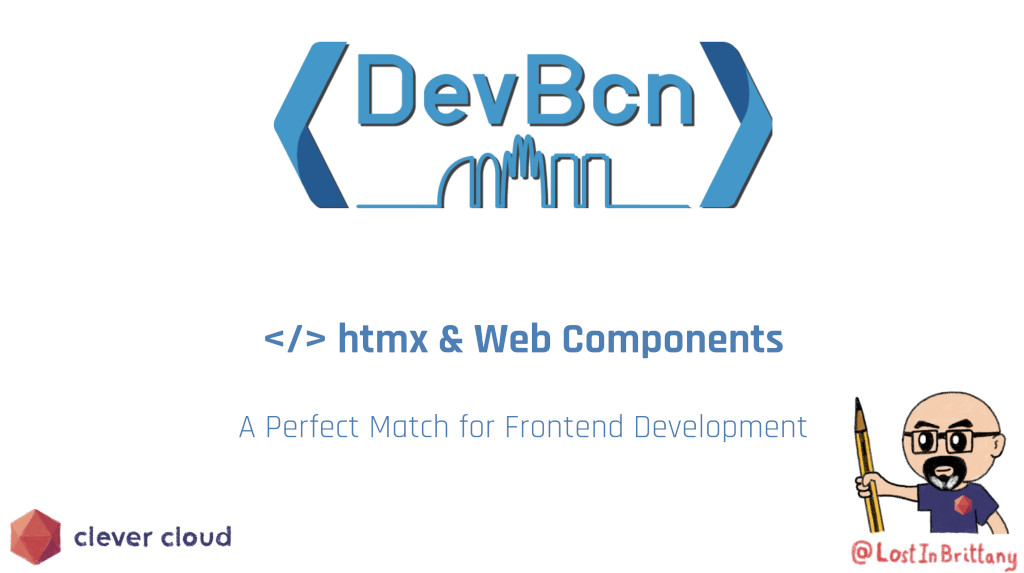
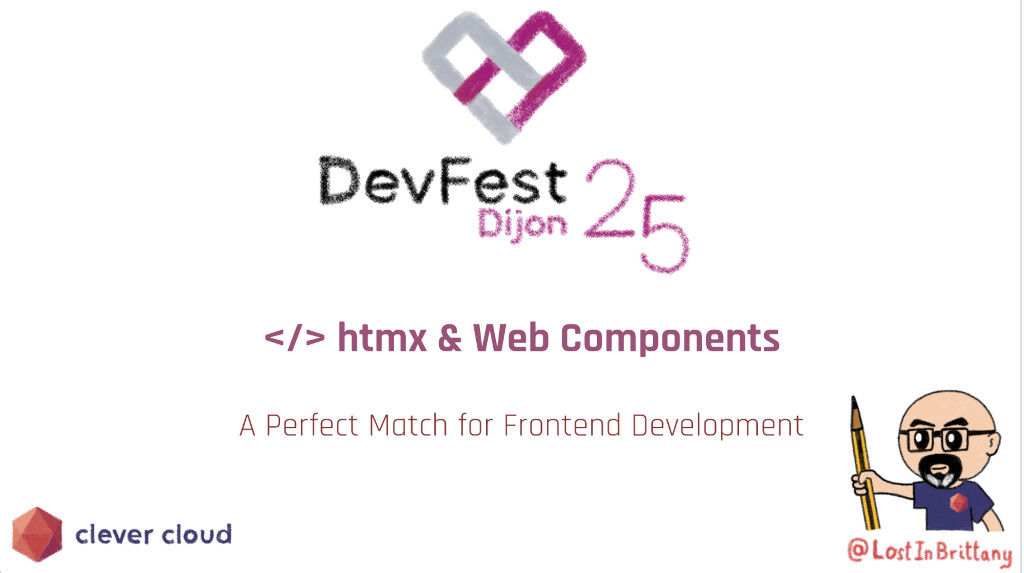
Updating to htmx 2.0.4 and lit 3.2.1, and to DefFest Dijon

diff --git a/weather-dashboard-example/weather-dashboard.html b/weather-dashboard-example/weather-dashboard.html
@@ -1,30 +1,25 @@
 <!DOCTYPE html>
 <html lang="en">
+
 <head>
   <meta charset="UTF-8">
   <meta name="viewport" content="width=device-width, initial-scale=1.0">
   <title>Weather Dashboard</title>
   <link rel="stylesheet" href="../styles.css">
   <script type="module" src="./weather-widget.js"></script>
-  <script src="https://unpkg.com/htmx.org@2.0.2"></script>
+  <script src="https://unpkg.com/htmx.org@2.0.4"></script>
 </head>
+
 <body>
 
   <h1>Weather Dashboard</h1>
 
-  <form id="location-form" 
-      hx-post="/location" 
-      hx-target="#weather-list" 
-      hx-swap="beforeend">
+  <form id="location-form" hx-post="/location" hx-target="#weather-list" hx-swap="beforeend">
     <input type="text" name="location" placeholder="Enter location" required>
     <button type="submit">Add Location</button>
   </form>
 
-  <div 
-      id="weather-list" 
-      class="dashboard"
-      hx-get="/locations"
-      hx-trigger="load"></div>
+  <div id="weather-list" class="dashboard" hx-get="/locations" hx-trigger="load"></div>
 </body>
-</html>
 
+</html>

diff --git a/weather-dashboard-example/weather-widget.js b/weather-dashboard-example/weather-widget.js
@@ -1,4 +1,4 @@
-import { LitElement, html, css } from 'https://cdn.jsdelivr.net/gh/lit/dist@3/core/lit-core.min.js';
+import { LitElement, html, css } from 'https://cdn.jsdelivr.net/npm/lit@3.2.1/+esm';
 
 export class WeatherWidget extends LitElement {
   static get properties() {
@@ -131,7 +131,7 @@ export class WeatherWidget extends LitElement {
       <div class="weather-container">
         <div class="weather-header">${this.name}</div>
         ${this.weatherData
-          ? html`
+        ? html`
               <div class="weather-temp">${this.weatherData.temperature}°C</div>
               <div class="weather-emoji" 
                   data-tooltip="${this.getWeatherInfo(this.weatherData.weathercode).description}">
@@ -139,7 +139,7 @@ export class WeatherWidget extends LitElement {
               </div>
               <div>${this.weatherData.windspeed} km/h wind</div>
             `
-          : html`<p>Loading...</p>`}
+        : html`<p>Loading...</p>`}
       </div>
     `;
   }

diff --git a/todo-example/todo-step-05.html b/todo-example/todo-step-05.html
@@ -12,19 +12,12 @@
   <h1>To-do list example</h1>
   <h2>Step 5: Editing tasks</h2>
 
-  <script src="https://unpkg.com/htmx.org@2.0.2"></script>
+  <script src="https://unpkg.com/htmx.org@2.0.4"></script>
 
   <div id="app" class="container">
     <h1>To-Do List</h1>
-    <ul 
-        id="todo-list" 
-        hx-get="/todo-list/step05/tasks" 
-        hx-trigger="load"></ul>
-    <form id="addTask" 
-        hx-post="/todo-list/step05/task" 
-        hx-trigger="submit" 
-        hx-target="#todo-list" 
-        hx-swap="beforeend">
+    <ul id="todo-list" hx-get="/todo-list/step05/tasks" hx-trigger="load"></ul>
+    <form id="addTask" hx-post="/todo-list/step05/task" hx-trigger="submit" hx-target="#todo-list" hx-swap="beforeend">
       <input type="text" name="task" required />
       <input type="submit" value="Add task" />
     </form>

diff --git a/todo-example/todo-step-04.html b/todo-example/todo-step-04.html
@@ -12,19 +12,11 @@
   <h1>To-do list example</h1>
   <h2>Step 4: Preloading existing tasks</h2>
 
-  <script src="https://unpkg.com/htmx.org@2.0.2"></script>
+  <script src="https://unpkg.com/htmx.org@2.0.4"></script>
 
   <div id="app" class="container">
-    <ul 
-        id="todo-list" 
-        hx-get="/todo-list/step04/tasks" 
-        hx-trigger="load"></ul>
-    <form 
-        id="addTask" 
-        hx-post="/todo-list/step04/task" 
-        hx-trigger="submit" 
-        hx-target="#todo-list" 
-        hx-swap="beforeend">
+    <ul id="todo-list" hx-get="/todo-list/step04/tasks" hx-trigger="load"></ul>
+    <form id="addTask" hx-post="/todo-list/step04/task" hx-trigger="submit" hx-target="#todo-list" hx-swap="beforeend">
       <input type="text" name="task" required />
       <input type="submit" value="addTask" />
     </form>

diff --git a/todo-example/todo-step-06.html b/todo-example/todo-step-06.html
@@ -12,19 +12,12 @@
   <h1>To-do list example</h1>
   <h2>Step 6: Deleting tasks</h2>
 
-  <script src="https://unpkg.com/htmx.org@2.0.2"></script>
+  <script src="https://unpkg.com/htmx.org@2.0.4"></script>
 
   <div id="app" class="container">
     <h1>To-Do List</h1>
-    <ul 
-        id="todo-list" 
-        hx-get="/tasks" 
-        hx-trigger="load"></ul>
-    <form id="addTask" 
-        hx-post="/task" 
-        hx-trigger="submit" 
-        hx-target="#todo-list" 
-        hx-swap="beforeend">
+    <ul id="todo-list" hx-get="/tasks" hx-trigger="load"></ul>
+    <form id="addTask" hx-post="/task" hx-trigger="submit" hx-target="#todo-list" hx-swap="beforeend">
       <input type="text" name="task" required />
       <input type="submit" value="Add task" />
     </form>

diff --git a/todo-example/todo-step-03.html b/todo-example/todo-step-03.html
@@ -12,16 +12,11 @@
   <h1>To-do list example</h1>
   <h2>Step 3: Appending tasks instead of replacing the list</h2>
 
-  <script src="https://unpkg.com/htmx.org@2.0.2"></script>
+  <script src="https://unpkg.com/htmx.org@2.0.4"></script>
 
   <div id="app" class="container">
     <div id="todo-list"></div>
-    <form 
-        id="addTask" 
-        hx-post="/todo-list/step03/task" 
-        hx-trigger="submit" 
-        hx-target="#todo-list" 
-        hx-swap="beforeend">
+    <form id="addTask" hx-post="/todo-list/step03/task" hx-trigger="submit" hx-target="#todo-list" hx-swap="beforeend">
       <input type="text" name="task" required />
       <input type="submit" value="Add task" />
     </form>

diff --git a/todo-example/todo-step-02.html b/todo-example/todo-step-02.html
@@ -12,14 +12,11 @@
   <h1>To-do list example</h1>
   <h2>Step 2: Adding htmx library</h2>
 
-  <script src="https://unpkg.com/htmx.org@2.0.2"></script>
+  <script src="https://unpkg.com/htmx.org@2.0.4"></script>
 
   <div id="app" class="container">
     <div id="todo-list"></div>
-    <form id="addTask" 
-        hx-post="/todo-list/step02/add" 
-        hx-trigger="submit" 
-        hx-target="#todo-list">
+    <form id="addTask" hx-post="/todo-list/step02/add" hx-trigger="submit" hx-target="#todo-list">
       <input type="text" name="task" required />
       <input type="submit" value="Add task" />
     </form>

diff --git a/htmx-examples/htmx-example-04.html b/htmx-examples/htmx-example-04.html
@@ -12,7 +12,7 @@
   <h1>&lt;/&gt; htmx examples</h1>
   <h2>Choosing when to send requests</h2>
 
-  <script src="https://unpkg.com/htmx.org@2.0.2"></script>
+  <script src="https://unpkg.com/htmx.org@2.0.4"></script>
 
   <div id="buttons-column">
     <button hx-get="/trigger/natural" hx-target="#status">
@@ -31,4 +31,5 @@
 
   <div id="status">No AJAX request sent yet</div>
 </body>
+
 </html>

diff --git a/htmx-examples/htmx-example-02.html b/htmx-examples/htmx-example-02.html
@@ -13,7 +13,7 @@
   <h1>&lt;/&gt; htmx examples</h1>
   <h2>Sending RESTful requests: <br> `GET`, `POST`, `PUT` and `DELETE`</h2>
 
-  <script src="https://unpkg.com/htmx.org@2.0.2"></script>
+  <script src="https://unpkg.com/htmx.org@2.0.4"></script>
 
   <div id="buttons">
     <button hx-get="/clicked" hx-target="#status">Send GET</button>

diff --git a/htmx-examples/htmx-example-05.html b/htmx-examples/htmx-example-05.html
@@ -12,7 +12,7 @@
   <h1>&lt;/&gt; htmx examples</h1>
   <h2>More triggering options</h2>
 
-  <script src="https://unpkg.com/htmx.org@2.0.2"></script>
+  <script src="https://unpkg.com/htmx.org@2.0.4"></script>
 
   <div id="buttons-column">
     <button hx-trigger="every 5s" hx-get="/trigger/5seconds" hx-target="#status">

diff --git a/htmx-examples/htmx-example-06.html b/htmx-examples/htmx-example-06.html
@@ -12,7 +12,7 @@
   <h1>&lt;/&gt; htmx examples</h1>
   <h2>A spinner to ease your wait</h2>
 
-  <script src="https://unpkg.com/htmx.org@2.0.2"></script>
+  <script src="https://unpkg.com/htmx.org@2.0.4"></script>
 
   <div id="buttons-column">
     <button hx-get="/slow-request" hx-indicator="#panel" hx-target="#status">

diff --git a/htmx-examples/htmx-example-03.html b/htmx-examples/htmx-example-03.html
@@ -12,7 +12,7 @@
   <h1>&lt;/&gt; htmx examples</h1>
   <h2>Using the response to replace elements</h2>
 
-  <script src="https://unpkg.com/htmx.org@2.0.2"></script>
+  <script src="https://unpkg.com/htmx.org@2.0.4"></script>
 
   <div id="buttons-column">
     <button hx-get="/test-replace/innerHTML">
